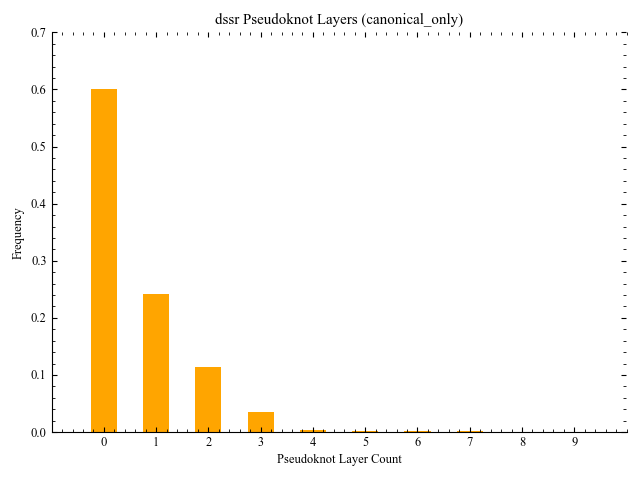
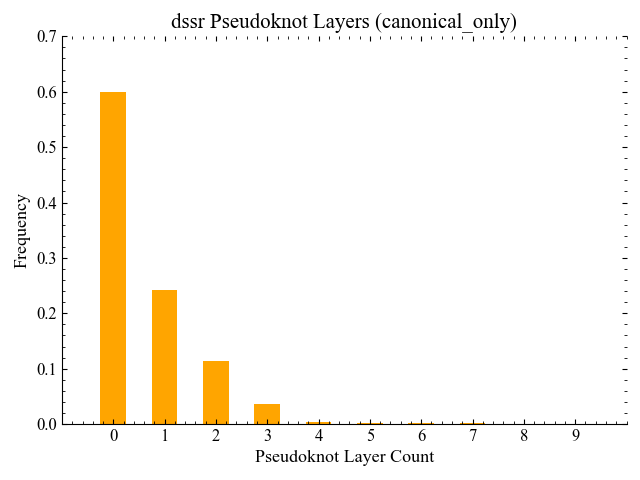
bar の文字を大きくした

diff --git a/analysis/pseudoknotlayer_plotting.py b/analysis/pseudoknotlayer_plotting.py
@@ -320,16 +320,17 @@ def main():
             freq = df['num_of_layers'].value_counts(normalize=True).sort_index()
             plt.figure()
             ax = freq.plot.bar( color = "orange")
-            ax.set_xlabel('Pseudoknot Layer Count')
+            ax.set_xlabel('Pseudoknot Layer Count', fontsize=13)
             ax.set_xticks([int(x) for x in range(freq.index.max() + 1)])
-            ax.set_xticklabels([int(x) for x in (range(freq.index.max() + 1))], rotation=0  )
+            ax.set_xticklabels([int(x) for x in (range(freq.index.max() + 1))], rotation=0 , fontsize=12)
+            ax.tick_params(axis='y', labelsize=12)
             
             ax.set_xlim(-1, freq.index.max()+1)  # x 軸の範囲を 0 から最大値に設定
             # plt.xlim(0, 10)
-            plt.ylabel('Frequency')
+            plt.ylabel('Frequency', fontsize=13)
             # y の表示領域を 0 から 0.7 に固定
             plt.ylim(0, 0.7)
-            plt.title(f'{parser} Pseudoknot Layers ({variant})')
+            plt.title(f'{parser} Pseudoknot Layers ({variant})', fontsize=15)
             plt.tight_layout()
             fn = f'bar_pseudoknot_layers_{variant}.png'
             plt.savefig(os.path.join(output_dir, parser, fn))
